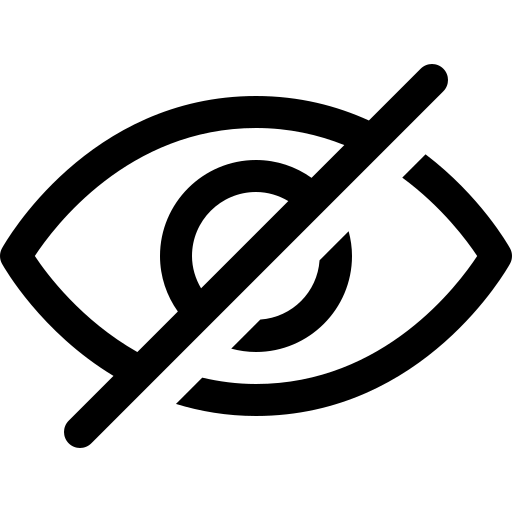
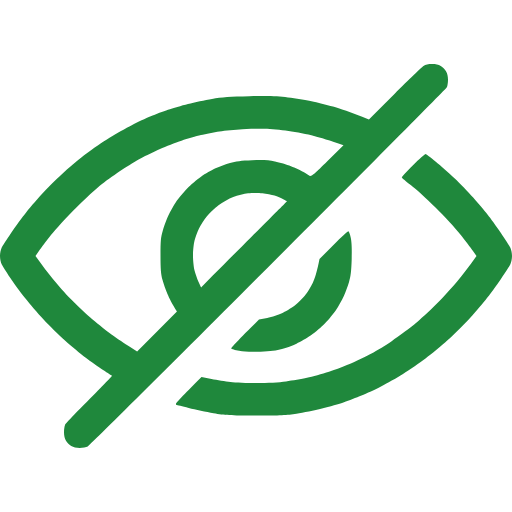
Changing color theme to green

Changed region(s): [[0.0, 0.125, 0.875, 0.875], [0.3438, 0.2812, 1.0, 0.8125], [0.4375, 0.4375, 0.6875, 0.6875]]

diff --git a/scripts/main.py b/scripts/main.py
@@ -160,10 +160,13 @@ class View:
         self.change_camera_frame_image = None
         self.fps = tk.IntVar(self.screen, value=10)
         self.audio = tk.BooleanVar(self.screen, value=False)
+        self.main_color = "#1F883D" # "#16a34a"
+        self.hover_color = "#1F793A"
 
         self.morse_code_table_frame = tk.CTkFrame(self.screen, fg_color="transparent")
         self.inside_morse_code_table_frame = tk.CTkFrame(self.morse_code_table_frame, fg_color="transparent")
         self.camera_frame = tk.CTkFrame(self.screen, fg_color="transparent")
+        self.camera_image_frame = tk.CTkFrame(self.camera_frame, fg_color="transparent")
         self.fps_frame = tk.CTkFrame(self.camera_frame, fg_color="transparent")
         self.left_eye_frame = tk.CTkFrame(self.camera_frame, fg_color="transparent")
         self.right_eye_frame = tk.CTkFrame(self.camera_frame, fg_color="transparent")
@@ -172,39 +175,40 @@ class View:
         self.text_frame = tk.CTkFrame(self.translation_frame, fg_color="transparent")
         self.audio_frame = tk.CTkFrame(self.translation_frame, fg_color="transparent")
 
-        self.languages = tk.CTkOptionMenu(self.morse_code_table_frame, values=["english", "bulgarian"], command=language_callback, font=("Courier New", 20, "bold"), dropdown_font=("Courier New", 20, "bold"))
+        self.languages = tk.CTkOptionMenu(self.morse_code_table_frame, values=["english", "bulgarian"], command=language_callback, font=("Courier New", 20, "bold"), dropdown_font=("Courier New", 20, "bold"), fg_color=self.main_color, button_color=self.main_color, button_hover_color=self.hover_color)
         self.morse_code_letters_table = tk.CTkTextbox(self.inside_morse_code_table_frame, width=160, state="disabled", font=("Courier New", 20, "bold"))
         self.morse_code_numbers_and_symbols_table = tk.CTkTextbox(self.inside_morse_code_table_frame, width=160, state="disabled", font=("Courier New", 20, "bold"))
         self.fps_label = tk.CTkLabel(self.fps_frame, text=f"FPS: {self.fps.get()}", font=("Courier New", 20, "bold"))
-        self.fps_slider = tk.CTkSlider(self.fps_frame, from_=10, to=100, variable=self.fps, width=200)
-        self.camera_image = tk.CTkLabel(self.camera_frame, text="")
+        self.fps_slider = tk.CTkSlider(self.fps_frame, from_=10, to=100, variable=self.fps, width=200, button_color=self.main_color, button_hover_color=self.hover_color)
+        self.camera_image = tk.CTkLabel(self.camera_image_frame, text="")
         self.left_eye_image = tk.CTkLabel(self.left_eye_frame, image=self.open_eye_image, text="")
-        self.dot = tk.CTkLabel(self.left_eye_frame, text=".", font=("Courier New", 20))
+        self.dot = tk.CTkLabel(self.left_eye_frame, text=".", font=("Courier New", 54, "bold"))
         self.right_eye_image = tk.CTkLabel(self.right_eye_frame, image=self.open_eye_image, text="")
-        self.dash = tk.CTkLabel(self.right_eye_frame, text="-", font=("Courier New", 20))
-        self.clear_btn = tk.CTkButton(self.translation_frame, width=320, text="Clear Text", font=("Courier New", 20, "bold"), corner_radius=5, command=clearing_callback_function)
+        self.dash = tk.CTkLabel(self.right_eye_frame, text="-", font=("Courier New", 54, "bold"))
+        self.clear_btn = tk.CTkButton(self.translation_frame, width=320, text="Clear Text", font=("Courier New", 20, "bold"), fg_color=self.main_color, hover_color=self.hover_color, corner_radius=5, command=clearing_callback_function)
         self.morse_code = tk.CTkTextbox(self.morse_code_frame, state="disabled", font=("Courier New", 20, "bold"))
         self.text = tk.CTkTextbox(self.text_frame, state="disabled", font=("Courier New", 20, "bold"))
-        self.audio_checkbox = tk.CTkCheckBox(self.audio_frame, variable=self.audio, onvalue=True, offvalue=False, text="Audio", font=("Courier New", 20, "bold"))
+        self.audio_checkbox = tk.CTkCheckBox(self.audio_frame, variable=self.audio, onvalue=True, offvalue=False, text="Audio", font=("Courier New", 20, "bold"), fg_color=self.main_color, hover_color=self.hover_color)
 
-        self.languages.pack(side="top", fill="x")
+        self.languages.pack(side="top", fill="x", pady=(0, 10))
         self.morse_code_letters_table.pack(side="left", fill="y", padx=(0, 5))
         self.morse_code_numbers_and_symbols_table.pack(side="right", fill="y", padx=(5, 0))
         self.fps_label.pack(side="left", padx=(0, 50))
         self.fps_slider.pack(side="left", pady=20)
-        self.camera_image.pack(side="bottom")
+        self.camera_image.pack()
         self.left_eye_image.pack(side="bottom", padx=80, pady=30)
         self.dot.pack(side="top")
         self.right_eye_image.pack(side="bottom", padx=80, pady=30)
         self.dash.pack(side="top")
-        self.clear_btn.pack(side="top", fill="x")
-        self.morse_code.pack(fill="both", expand=True, pady=(0, 5))
+        self.clear_btn.pack(side="top", fill="x", pady=(0, 5))
+        self.morse_code.pack(fill="both", expand=True, pady=(5, 5))
         self.text.pack(fill="both", expand=True, pady=(5, 0))
         self.audio_checkbox.pack(pady=10)
 
         self.inside_morse_code_table_frame.pack(fill="both", expand=True)
         self.morse_code_table_frame.pack(side="left", fill="y", expand=True, padx=(10, 5), pady=10)
-        self.fps_frame.pack()
+        self.fps_frame.pack(side="bottom", pady=20)
+        self.camera_image_frame.pack(side="bottom")
         self.left_eye_frame.pack(side="left")
         self.right_eye_frame.pack(side="right")
         self.camera_frame.pack(side="left", expand=True, padx=(5, 5), pady=10)
